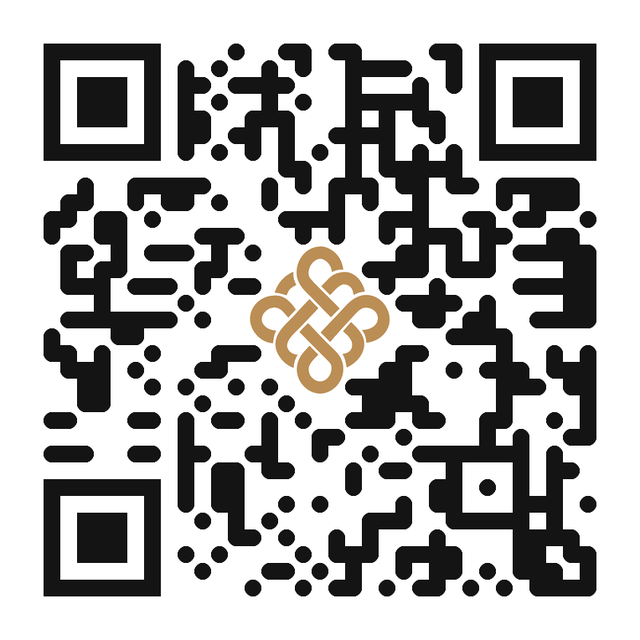
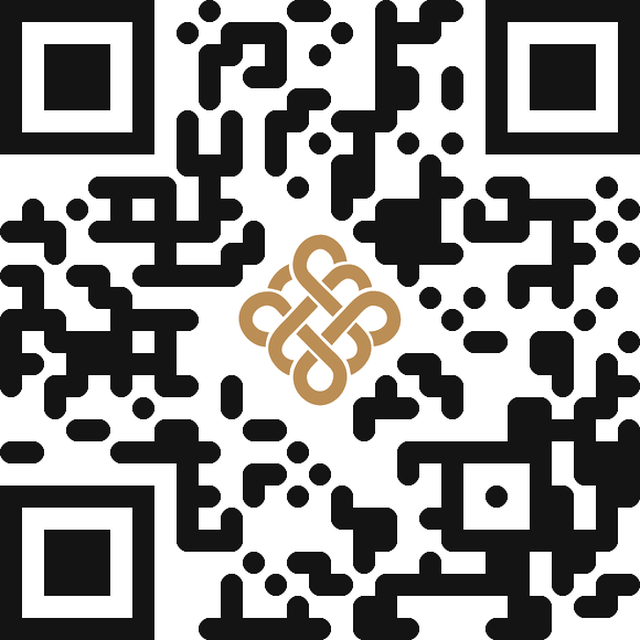
Move the tournament's public address to hyphos.io
hyphos.io now serves the tournament through a service binding to this worker.
Here, requests that arrive on hyphosconsulting.com are redirected: tournament
pages (/golf, /course and their files) to the same path on hyphos.io with a
302, everything else to its mapped hyphos.io page as before. The worker runs
before assets so a tournament page that exists as a file still redirects.
Writes are never redirected, so a page already open on the old domain can
still post. /go/ and /c/ scans are counted on either domain, and /c/ now
lands on hyphos.io.

The QR codes on screen now encode hyphos.io: the hole board's inline code
(https://hyphos.io/golf) and the prize draw and course board image
(HTTPS://HYPHOS.IO/GO/SCREEN, same style as before). Both decode correctly at
640, 300 and 180 px. The hole board's printed URL reads hyphos.io/golf.

diff --git a/src/worker.js b/src/worker.js
@@ -717,11 +717,13 @@ These get read by the person who wrote them, standing next to the screen.`,
 const GO_PATH = /^\/go(?:\/([a-z0-9-]{1,32}))?\/?$/i;
 const GO_CAMPAIGN = 'springs-golf-2026';
 
-// hyphos.io is the one Hyphos site. This domain keeps only what printed
-// material and the tournament depend on: /golf, /course, /c/, /go/ and their
-// APIs. Every other page redirects to its equivalent there. The QR stickers
-// already carry this domain, so scans are still counted here first.
+// hyphos.io is the one Hyphos site, and the tournament is served there too:
+// the hyphos.io worker passes /golf, /course, /c/, /go/ and their APIs to this
+// worker over a service binding. Requests that arrive on hyphosconsulting.com
+// directly (old links, anything already printed) are redirected to the same
+// place on hyphos.io. /go/ and /c/ scans are still counted before redirecting.
 const MAIN_SITE = 'https://hyphos.io';
+const OLD_HOST = /(?:^|\.)hyphosconsulting\.com$/i;
 const MOVED = {
   '/': '/',
   '/about': '/about',
@@ -743,6 +745,12 @@ function redirectToMainSite(request) {
     status: 301,
     headers: { location: target.toString(), 'cache-control': 'public, max-age=3600' },
   });
+}
+
+function redirectTournament(request) {
+  const url = new URL(request.url);
+  const target = new URL(url.pathname + url.search, MAIN_SITE);
+  return new Response(null, { status: 302, headers: { location: target.toString(), 'cache-control': 'no-store' } });
 }
 
 async function handleGo(request, env, ctx, tag) {
@@ -818,7 +826,7 @@ const COURSE_CODE_PATH = /^\/c\/([a-z0-9]{1,8})\/?$/i;
 
 async function handleCourseCode(request, env, ctx, code) {
   const contest = CONTEST_BY_CODE[code.toLowerCase()];
-  const target = new URL(contest ? `/course/enter/?c=${contest.id}` : '/course/', request.url);
+  const target = new URL(contest ? `/course/enter/?c=${contest.id}` : '/course/', MAIN_SITE);
   if (contest && env.DB) {
     const write = env.DB.prepare(
       'INSERT INTO scan_log (created_at, tag, user_agent, country) VALUES (?1, ?2, ?3, ?4)'
@@ -928,7 +936,8 @@ async function handleCourseDelete(request, env) {
 
 export default {
   async fetch(request, env, ctx) {
-    const { pathname } = new URL(request.url);
+    const { pathname, hostname } = new URL(request.url);
+    const onOldHost = OLD_HOST.test(hostname);
 
     const go = pathname.match(GO_PATH);
     if (go) return handleGo(request, env, ctx, (go[1] || 'other').toLowerCase());
@@ -984,12 +993,19 @@ export default {
         : json({ error: 'Method not allowed.' }, 405);
     }
 
-    const response = await env.ASSETS.fetch(request);
-    // Anything this domain no longer serves goes to hyphos.io. The tournament
-    // routes are all real assets or handled above, so they never reach here.
-    if (response.status === 404 && (request.method === 'GET' || request.method === 'HEAD')) {
-      return redirectToMainSite(request);
+    const readOnly = request.method === 'GET' || request.method === 'HEAD';
+
+    // Tournament pages opened on the old domain move to the same path on
+    // hyphos.io. A 302, not a 301, so a cached redirect never outlives a
+    // change of plan. Other old pages go to their mapped hyphos.io page.
+    if (onOldHost && readOnly) {
+      return /^\/(?:golf|course|_astro)(?:\/|$)/i.test(pathname)
+        ? redirectTournament(request)
+        : redirectToMainSite(request);
     }
+
+    const response = await env.ASSETS.fetch(request);
+    if (response.status === 404 && readOnly) return redirectToMainSite(request);
     if (pathname.startsWith('/golf')) {
       const headers = new Headers(response.headers);
       headers.set('x-robots-tag', 'noindex, nofollow, noarchive');
